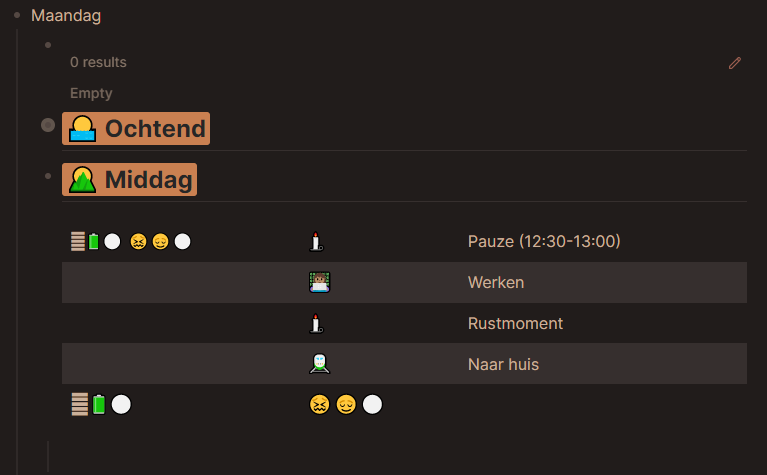
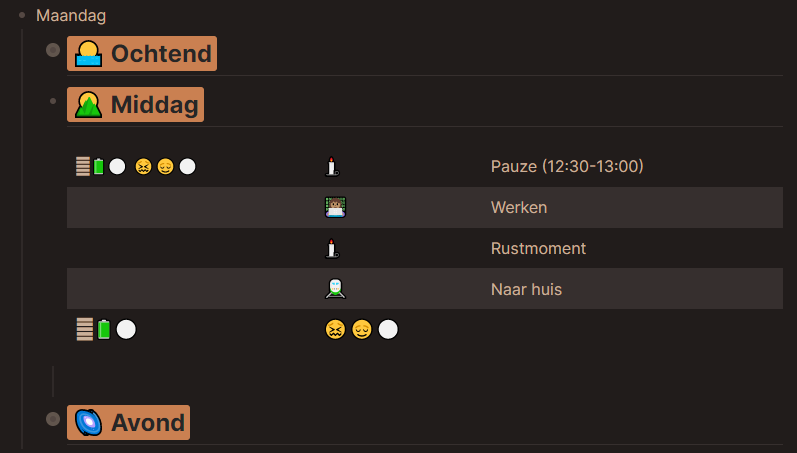
blogpost concept afgerond

diff --git a/content/posts/how-queries-support-my-logseq-workflow/Bullet-Journaling-in-Logseq2.md b/content/posts/how-queries-support-my-logseq-workflow/Bullet-Journaling-in-Logseq2.md
@@ -83,10 +83,10 @@ Beneath that, well, anything goes! Tasks that come to mind during the day, thoug
 ## Day planning and execution
 Every week, with my autism coach, I plan out the week ahead. What I will do in the morning, in the afternoon and in the evening. This forms the backbone of my daily log.
 
-For this I have a week planning template which has a block for each day of the week. ==needs an updated screenshot==
+For this I have a week planning template which has a block for each day of the week. 
 ![weekplanning](weekplanning.png)
 
-My day is divided into 3 parts, morning (wake-up time till 12:30), afternoon (12:30 till 17:00) and evening (17:00 till going to bed). As every block functions basically the same way I'll focus on Monday afternoon. ==update screenshot==
+My day is divided into 3 parts, morning (wake-up time till 12:30), afternoon (12:30 till 17:00) and evening (17:00 till going to bed). As every block functions basically the same way I'll focus on Monday afternoon. 
 ![mondayafternoon](mondayafternoon.png)
 
 In plain text, the afternoon bullet looks like this.
@@ -111,10 +111,13 @@ Because it is such a small list I can keep an overview and don't get overwhelmed
 I have a week planning page where I call the template each week. This page is used for the planning of the whole week. On this page the names of the day of the week get replaced with references to the future journal pages they'll be on. I fill these using the `/date picker` command.
 
 Every morning I go to the day's journal page and cut/paste the day plan from the week planning page (which is shown in the linked references of the journal page) into the journal page. 
-==screenshot==
+![weekplanning_to_journal_1.png](weekplanning_to_journal_1.png)
+
+I outdent the blocks under the page link and remove the page link.
+![weekplanning_to_journal_2.png](weekplanning_to_journal_2.png)
 
 During the day I will log what I do and what happens in the child bullets beneath the overview table. The only things I don't log are the items planned on the table, unless I have notes to add. As mentioned I check those off in the table itself.  
 At the end of the day my Monday afternoon will then look something like this.
-==screenshot==
+![mondayafternoon_finished.png](mondayafternoon_finished.png)
 
 Next time I will show you how I use queries on a custom start page to manage all I've talked about so far.
